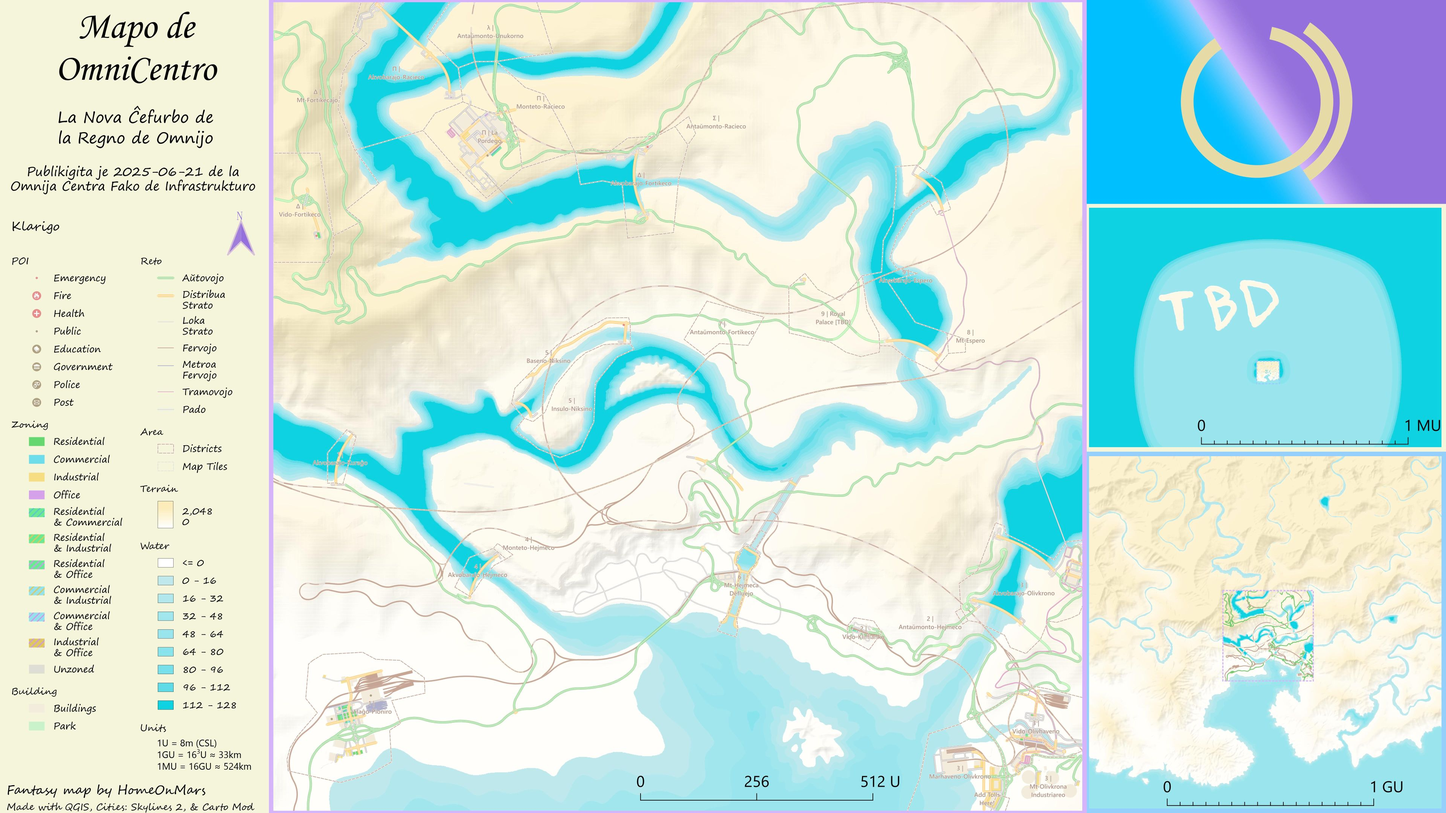
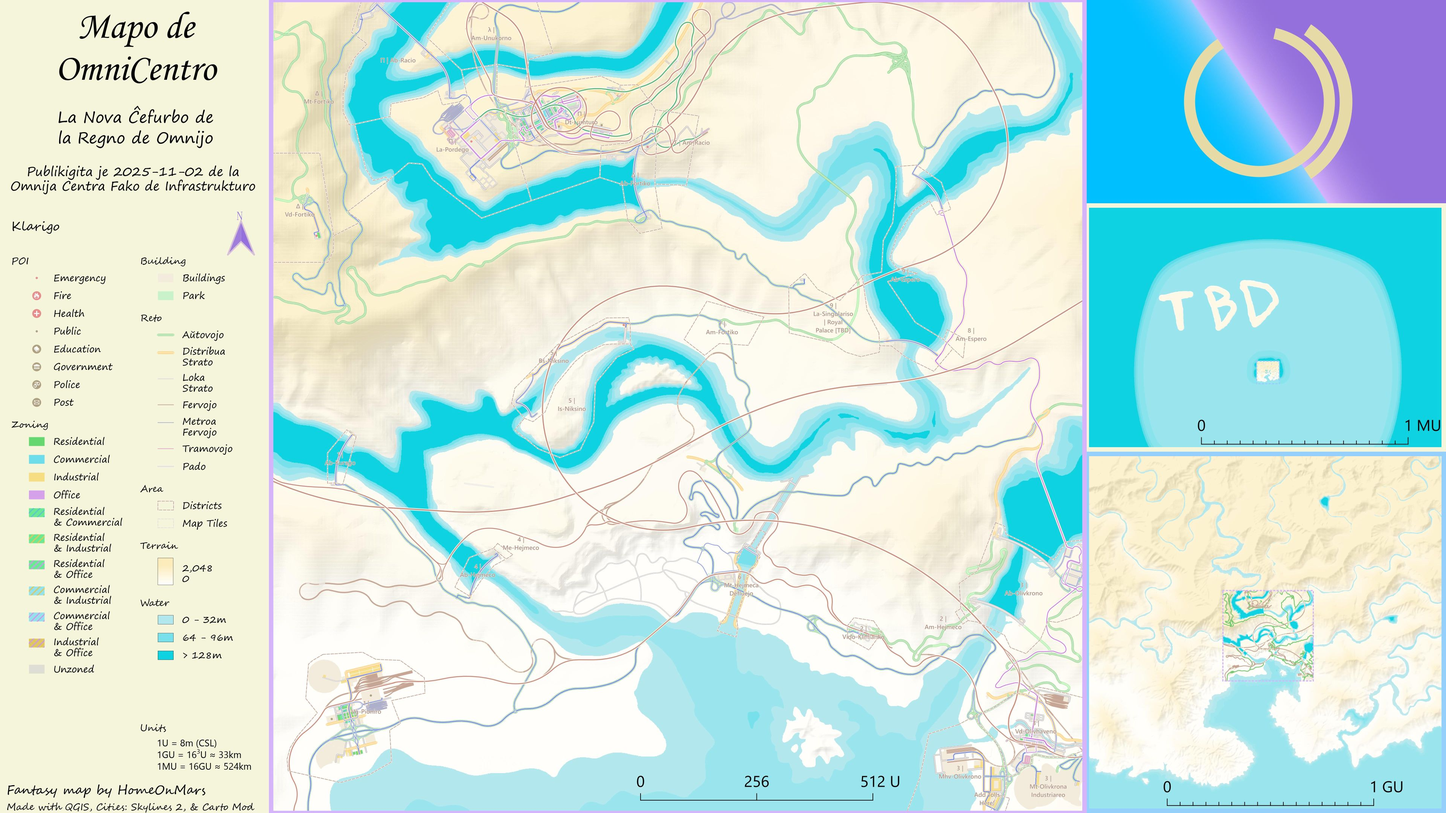
OC-v4 Snapshot

diff --git a/OmniCentro/Sxangxonoto/Sxangxonoto_pub.md b/OmniCentro/Sxangxonoto/Sxangxonoto_pub.md
@@ -9,6 +9,86 @@
 Content
 -------------------------------------------------------------------------------
 
+### v4.0 <-- v3.0 | `2025-11-02` 
+
+> Update for v1.3.6f1.
+>
+> Building a hillside residential district in the Northwest.
+
+- `Meta::GameVer`: v1.3.6f1;
+- `Assets::Required`:
+  - 'China Pack' (100454);
+  - 'Eastern Europe Pack' (98960);
+  - 'UK Pack' (92859);
+  - 'USA Northeast Pack' (101948);
+- `Mods::Required`:
+  - 'Anarchy' (74604);
+  - 'Dummy Traffic Remover' (107683);
+  - 'Plop the Growables' (75826);
+  - 'Real Life' (86868);
+  - 'Realistic Trips' (77171);
+  - 'Recolor' (84638);
+  - 'Road Builder' (87190);
+  - 'Traffic' (80095);
+- `Mods::Optional`:
+  - 'All Aboard! (Faster Boarding Mod)' (86605);
+  - 'Better Bulldozer' (75250);
+  - 'Carto' (87428);
+  - 'Extra Networks and Areas' (77175);
+  - 'Find It' (77240);
+  - 'Hall of Fame' (90641);
+  - 'Map Texture Replacer' (76050);
+    - 'Alpine Theme' (76828);
+    - 'Volchoria Map Theme' (76896);
+  - 'Move It' (74324);
+  - 'Simple Mod Checker Plus' (79186);
+  - 'Skyve' (75804);
+  - 'Water Features' (75613);
+- `Mods::RealisticTrips`,`Note`:
+  - Settings 'Slow Time and Increase Day Length': set to **x2.5**;  
+    Note: A quick speed test in-game shows that
+    time in-game flows *x10* faster than suggested speed limits:  
+    (Test setup as a 8km track for trams to travel through at 40kph.
+    Trams took 1 in-game hr to go through at RealisticTrips::SlowTime set as x2.
+    After setting RealisticTrips::SlowTime to x2.5,
+    the same tram line took 48min as expected.)  
+    Setting it to x2.5 to get a good compromise between
+    being physically realistic and being playable and fun.
+    Now it's only x4 faster than what's suppose to be,
+    i.e. each citizen's commute will be only 4 times longer instead of 10 times.
+- `Mods::RoadBuilder`:
+  - Rename Road Types:
+    - 'Ŭj' to 'Ŭv';
+    - 'Ej' to 'Ev';
+    - 'Tj' to 'Tv';
+  - Remove Road Types:
+    - 'St-J \[HJAah\]';
+    - 'St-J \[HJŬUh\]';
+  - Modify Road Types:
+    - 'St-J \[HŬ2h\] bridge';
+    - 'Ev-K' series;
+  - Changed specs for :
+    - Reduce curve radius limit in name from 143U to 128U;
+    - Reduce speed limit from 185kph to 175kph;
+- `District::Dt-Lumturo`,`Expansion::(Zoning,Services,Rail)`,`Transit`:
+  - Build residential district Dt-Lumturo on the hill of Me-Racio (pt1);
+  - Build Telecom complex 'Ĉs-OCRR' on the top of the hill;
+  - Build hospital complex 'Kt-Arteza Hospitalo' to fix lack of ambulances;
+  - Add various tram/metro/train lines and hubs;
+- `District::La-Pordego`,`Expansion::(Services,Road,Rail)`,`Fixes`:
+  - Fix Recycling Center not working;
+  - Add Cargo Train Terminal;
+  - Improve Parking lot roads layout and add more parking;
+  - Rearrange services with the new buildings from Region packs and CCPS.
+- `District::Vĝ-Pioniro`,`Expansion::Zoning`:
+  - Add a row of temporary industry zones;
+- `Resources`:
+  - Add offshore oil near the sea;
+- `Naming`,`Fixes`:
+  - Various naming simplifications;
+
+-------------------------------------------------------------------------------
+
 ### v3.0 <-- v2.0 | `2025-06-21`
 
 > Northern Solstice update.  
